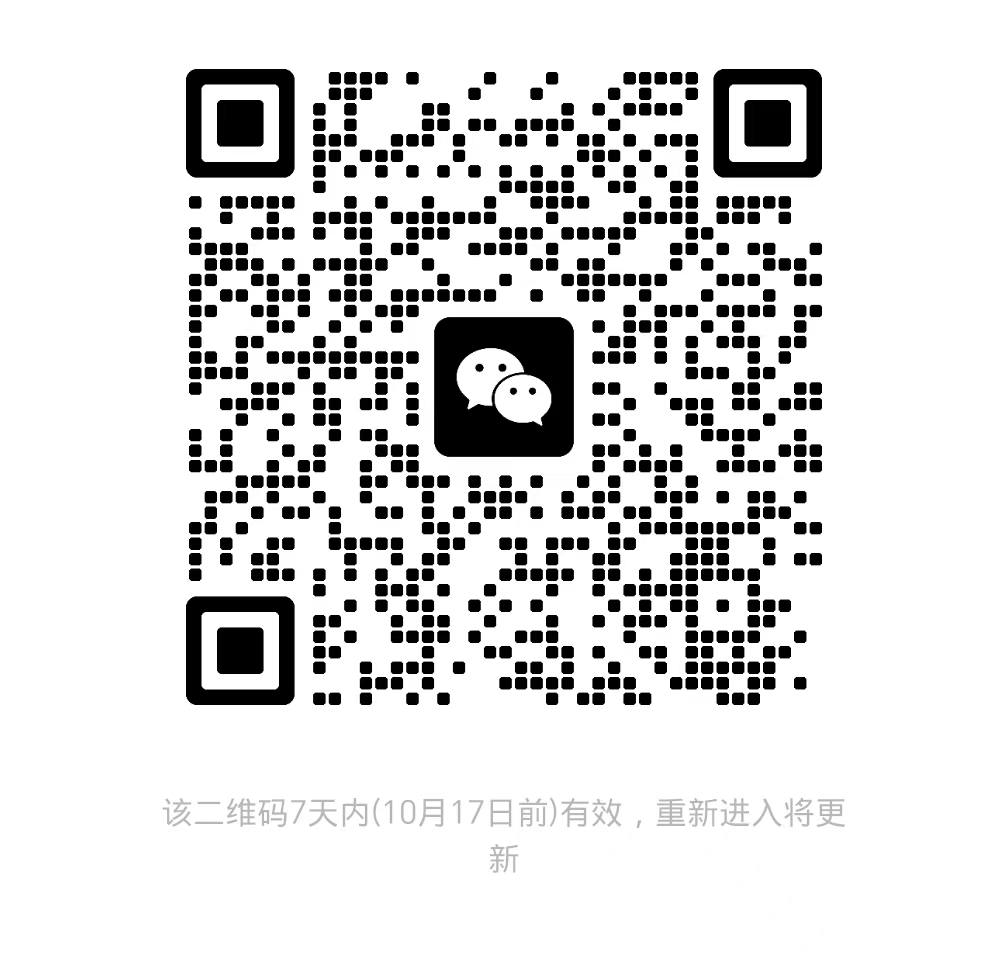
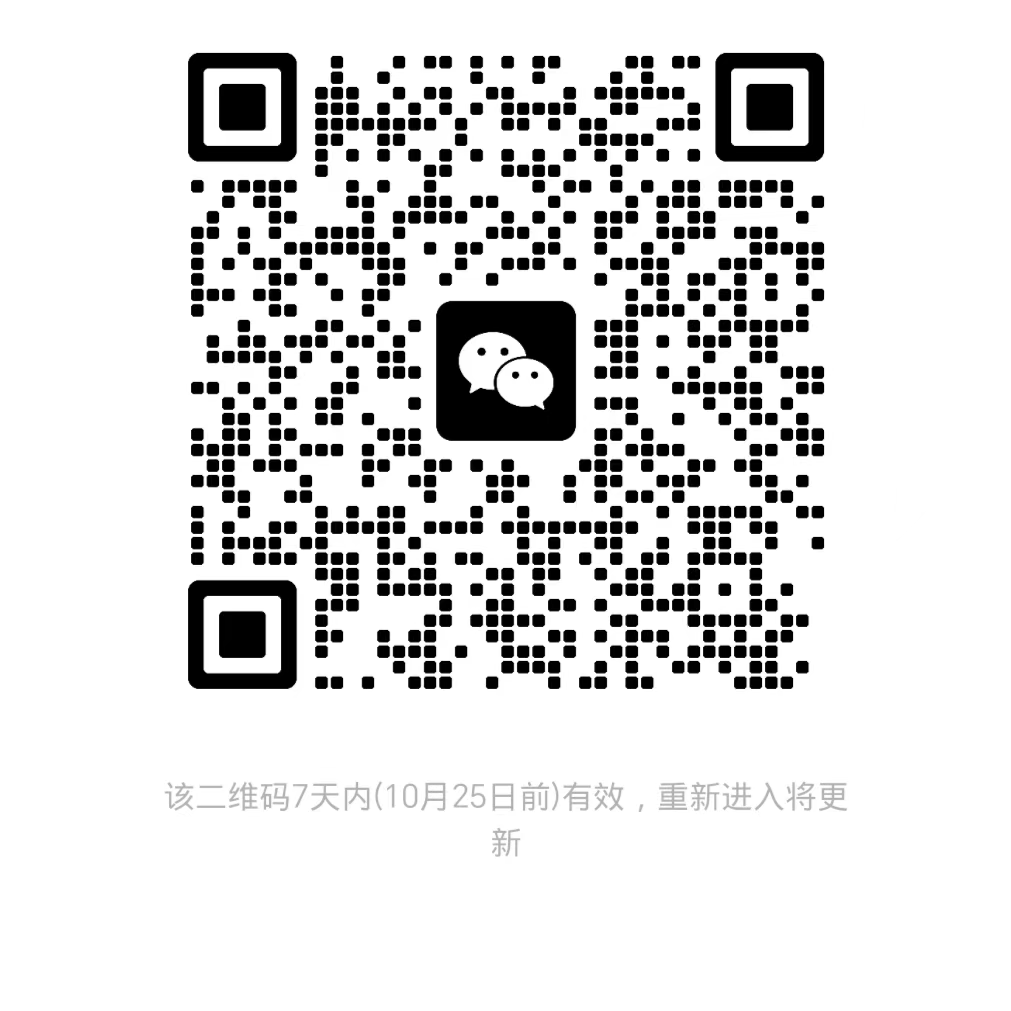
更新文档

Changed region(s): [[0.1862, 0.0307, 0.8378, 0.7369], [0.1552, 0.7677, 0.6206, 0.8905], [0.6517, 0.7677, 0.8378, 0.8598]]

diff --git a/README.md b/README.md
@@ -202,8 +202,8 @@ $props({
 });
 ```
 
-## 4-该扩展使用问题咨询
+## 4-欢迎扫下方二维码咨询或反馈问题
 
-| 扫码加微信群咨询或反馈问题                                             | 扫码加作者微信咨询或反馈问题                                  |
-| ---------------------------------------------------------------------- | ------------------------------------------------------------- |
-| <img width="180" alt="作者微信" src="./images/WeChatGroup1QrCode.jpg"> | <img width="180" alt="作者微信" src="./images/BGAQrCode.png"> |
+| 扫码加微信群咨询或反馈问题                                           | 扫码关注微信公众号查看视频教程                                 | 扫码加作者微信咨询或反馈问题                                  |
+| -------------------------------------------------------------------- | -------------------------------------------------------------- | ------------------------------------------------------------- |
+| <img width="180" alt="微信群" src="./images/WeChatGroup1QrCode.jpg"> | <img width="180" alt="公众号" src="./images/GongZhongHao.png"> | <img width="180" alt="作者微信" src="./images/BGAQrCode.png"> |
